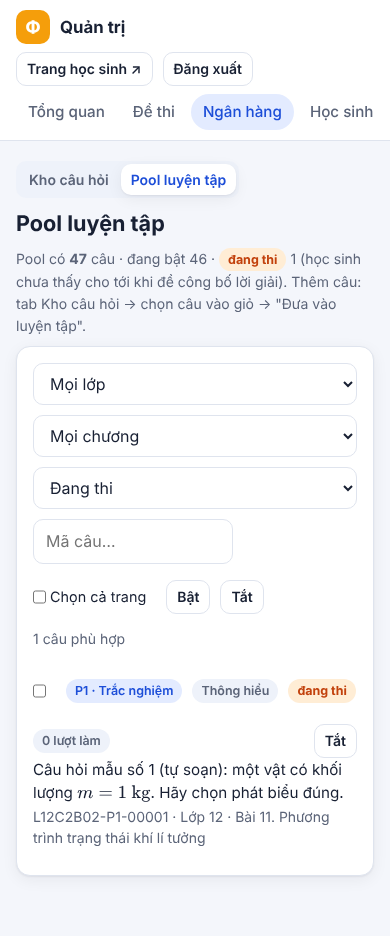
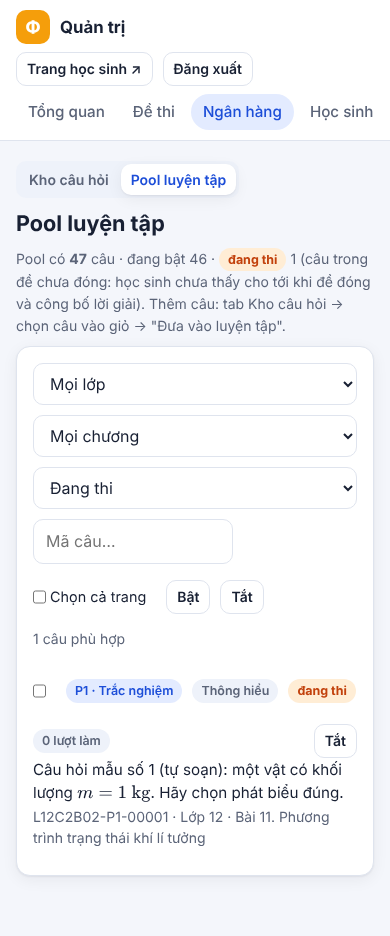
Pha 4 vòng 2: chặn câu của mọi đề chưa đóng (R-1), ẩn lời giải câu đang thi khi xem lại (R-2), đọc theo học sinh (R-3), R-5, R-6, N-1, N-2
Claude-Session: https://claude.ai/code/session_01BBCuQ1sSV2ojmqNhomXWAj

Changed region(s): [[0.0308, 0.2479, 0.9538, 0.3718]]

diff --git a/tests/pha4.test.js b/tests/pha4.test.js
@@ -243,6 +243,7 @@ t('TC-4.6 CAU_SAI: có X (đề đã cho xem lời giải) và Y (bài luyện);
   const X = pool[3];
   const eX = saveExam(w, { trangThai: 'MO', hienLoiGiai: 'NGAY' }, [X, MANUAL(1)]);
   doExam(w, eX, {}); // sai cả X và câu nhập tay
+  saveExam(w, { trangThai: 'DONG', hienLoiGiai: 'NGAY' }, [X, MANUAL(1)], eX); // vòng 2: chỉ đề ĐÃ ĐÓNG mới cho câu vào luyện tập
   const eZ = saveExam(w, { trangThai: 'MO', hienLoiGiai: 'SAU_HAN', ketThuc: inHour() }, [MANUAL(9)]);
   doExam(w, eZ, {});
   // Y: sai ở bài luyện
@@ -428,8 +429,8 @@ t('TC-4.12 Sheet cũ không có LuyenTap/KetQuaLuyenTap: practiceMeta rỗng, kh
   assert(ok(w.g.call('practiceMeta', { token: w.sTok })).soCauSai >= 1);
 });
 
-t('TC-4.13 câu X trong pool và trong đề SAU_HAN đang mở / đề NHAP: 50 lần practiceStart (mọi kiểu) không có X; đóng đề thì X xuất hiện lại', () => {
-  for (const kind of ['SAU_HAN', 'NHAP']) {
+t('TC-4.13 câu X trong pool và trong đề đang mở (SAU_HAN, NGAY) / đề NHAP: 50 lần practiceStart (mọi kiểu) không có X; đóng đề thì X xuất hiện lại', () => {
+  for (const kind of ['SAU_HAN', 'NGAY', 'NHAP']) {
     const w = world();
     const meta0 = ok(w.g.call('practiceMeta', { token: w.sTok }));
     const thin = meta0.cay.find((x) => /Bài 11/.test(x.bai)); // 3 câu Phần I
@@ -438,7 +439,14 @@ t('TC-4.13 câu X trong pool và trong đề SAU_HAN đang mở / đề NHAP: 50
     const s0 = ok(w.g.call('practiceStart', { token: w.sTok, kieu: 'TU_TAO', bai: [thin.bai], so: { TN: 5, DS: 0, TL: 0 }, phut: 5 }));
     assert(payload(s0.attemptToken).qids.includes(X));
     ok(w.g.call('submitExam', { token: w.sTok, attemptToken: s0.attemptToken, answers: {} }));
-    const eid = saveExam(w, kind === 'NHAP' ? { trangThai: 'NHAP' } : { trangThai: 'MO', hienLoiGiai: 'SAU_HAN', ketThuc: inHour() }, [X]);
+    const eid = saveExam(w, kind === 'NHAP' ? { trangThai: 'NHAP' } : { trangThai: 'MO', hienLoiGiai: kind, ketThuc: inHour() }, [X]);
+    // R-2: xem lại bài luyện cũ (có X) lúc X đang bị chặn → không có đáp án/lời giải của X; giáo viên vẫn thấy
+    const old = ok(w.g.call('getResult', { token: w.sTok, resultId: ok(w.g.call('myResults', { token: w.sTok, loai: 'luyen' }))[0].id }));
+    const xi = old.items.find((it) => it.noiDung === String(w.byMa[X][col('Nội dung câu hỏi')]));
+    assert(xi && xi.an && !xi.dapAn && !xi.loiGiai && /chưa kết thúc/.test(xi.anNote), kind + ': xem lại lộ đáp án X');
+    assert(old.items.filter((it) => it !== xi).every((it) => it.loiGiai), 'câu khác vẫn có lời giải');
+    const oldT = ok(w.g.call('getResult', { token: w.tTok, resultId: old.id }));
+    assert(oldT.items.find((it) => it.stt === xi.stt).loiGiai, 'giáo viên vẫn thấy lời giải');
     const meta = ok(w.g.call('practiceMeta', { token: w.sTok }));
     assert.strictEqual(meta.cay.find((x) => x.bai === thin.bai).dem.TN, 2, 'practiceMeta không đếm X');
     const kinds = ['TU_TAO', 'CAU_SAI', 'NHANH'];
@@ -450,7 +458,9 @@ t('TC-4.13 câu X trong pool và trong đề SAU_HAN đang mở / đề NHAP: 50
     }
     // câu trong pool bị chặn cũng không lộ qua kết quả xem lại? (bài s0 làm trước khi chặn: vẫn là câu luyện tập đã nộp → được xem)
     // đóng đề → X xuất hiện lại
-    saveExam(w, { trangThai: 'DONG', hienLoiGiai: 'SAU_HAN' }, [X], eid);
+    saveExam(w, { trangThai: 'DONG', hienLoiGiai: kind === 'NGAY' ? 'NGAY' : 'SAU_HAN' }, [X], eid);
+    const back = ok(w.g.call('getResult', { token: w.sTok, resultId: old.id }));
+    assert(back.items.every((it) => it.loiGiai && !it.an), 'đóng đề → lời giải hiện lại');
     assert.strictEqual(ok(w.g.call('practiceMeta', { token: w.sTok })).cay.find((x) => x.bai === thin.bai).dem.TN, 3);
     const s = ok(w.g.call('practiceStart', { token: w.sTok, kieu: 'TU_TAO', bai: [thin.bai], so: { TN: 5, DS: 0, TL: 0 }, phut: 5 }));
     assert(payload(s.attemptToken).qids.includes(X), 'X xuất hiện lại');
@@ -466,7 +476,19 @@ t('TC-4.13 câu X trong pool và trong đề SAU_HAN đang mở / đề NHAP: 50
   assert(w.g.blockedBankIds_()[X], 'đề không công bố lời giải');
   saveExam(w, { trangThai: 'MO', hienLoiGiai: 'NGAY', batDau: hourAgo() }, [X], e1);
   w.g.__MEMO();
-  assert(!w.g.blockedBankIds_()[X], 'đề công bố lời giải ngay: không chặn');
+  assert(w.g.blockedBankIds_()[X], 'vòng 2: đề NGAY đang mở vẫn chặn');
+  saveExam(w, { trangThai: 'MO', hienLoiGiai: 'NGAY', batDau: hourAgo(), ketThuc: hourAgo() }, [X], e1);
+  w.g.__MEMO();
+  assert(!w.g.blockedBankIds_()[X], 'đề NGAY đã hết hạn: không chặn');
+  saveExam(w, { trangThai: 'DONG', hienLoiGiai: 'KHONG' }, [X], e1);
+  w.g.__MEMO();
+  assert(w.g.blockedBankIds_()[X], 'đề đã đóng nhưng không công bố lời giải: vẫn chặn');
+  // đệm hết hạn đúng mốc đóng đề: đề NGAY đóng sau 2 giây
+  saveExam(w, { trangThai: 'MO', hienLoiGiai: 'NGAY', ketThuc: inHour() }, [X], e1);
+  w.g.__MEMO();
+  assert(w.g.blockedBankIds_()[X]);
+  const blkKey = Object.keys(w.g._cache).find((k) => /^blk_/.test(k));
+  assert(JSON.parse(w.g._cache[blkKey].v).until <= Date.now() + 3600e3 + 60e3, 'đệm sống tới mốc đóng đề');
 });
 
 t('TC-4.14 sửa đề sau khi học sinh làm (chèn câu lên đầu): câu nhập tay lệch bị bỏ khỏi CAU_SAI; câu có maKho vẫn đúng', () => {
@@ -476,10 +498,11 @@ t('TC-4.14 sửa đề sau khi học sinh làm (chèn câu lên đầu): câu nh
   const M = MANUAL(1);
   const eid = saveExam(w, { trangThai: 'MO', hienLoiGiai: 'NGAY' }, [M, X]);
   doExam(w, eid, {});
+  saveExam(w, { trangThai: 'DONG', hienLoiGiai: 'NGAY' }, [M, X], eid);
   let set = payload(ok(w.g.call('practiceStart', { token: w.sTok, kieu: 'CAU_SAI' })).attemptToken).qids;
   assert.deepStrictEqual(set.sort(), [eid + '#1', eid + '#2'].sort());
   // giáo viên chèn câu mới lên đầu, đánh số lại
-  saveExam(w, { trangThai: 'MO', hienLoiGiai: 'NGAY' }, [MANUAL(0), M, X], eid);
+  saveExam(w, { trangThai: 'DONG', hienLoiGiai: 'NGAY' }, [MANUAL(0), M, X], eid);
   set = payload(ok(w.g.call('practiceStart', { token: w.sTok, kieu: 'CAU_SAI' })).attemptToken).qids;
   assert(!set.includes(eid + '#1'), 'ô #1 nay là câu khác → bỏ');
   assert(!set.includes(eid + '#2'), 'không đoán theo vị trí mới cho câu nhập tay');
@@ -489,14 +512,17 @@ t('TC-4.14 sửa đề sau khi học sinh làm (chèn câu lên đầu): câu nh
   w2.sync({ maKho: [w2.k.rows[0][0]] });
   const e2 = saveExam(w2, { trangThai: 'MO', hienLoiGiai: 'NGAY' }, [MANUAL(5)]);
   doExam(w2, e2, {});
+  saveExam(w2, { trangThai: 'DONG', hienLoiGiai: 'NGAY' }, [MANUAL(5)], e2);
   assert.strictEqual(ok(w2.g.call('practiceMeta', { token: w2.sTok })).soCauSai, 1);
-  saveExam(w2, { trangThai: 'MO', hienLoiGiai: 'NGAY' }, [Object.assign(MANUAL(5), { noiDung: 'Nội dung đã sửa.' })], e2);
+  saveExam(w2, { trangThai: 'DONG', hienLoiGiai: 'NGAY' }, [Object.assign(MANUAL(5), { noiDung: 'Nội dung đã sửa.' })], e2);
   assert.strictEqual(ok(w2.g.call('practiceMeta', { token: w2.sTok })).soCauSai, 0);
   // câu lấy từ đề thi trong bài luyện: chiTiet q = examId#stt, xem lại có lời giải
   const w3 = world({ sync: false });
   w3.sync({ maKho: [w3.k.rows[0][0]] });
   const e3 = saveExam(w3, { trangThai: 'MO', hienLoiGiai: 'NGAY' }, [MANUAL(7)]);
   doExam(w3, e3, {});
+  assert.strictEqual(ok(w3.g.call('practiceMeta', { token: w3.sTok })).soCauSai, 0, 'đề còn mở: câu chưa vào tập câu sai');
+  saveExam(w3, { trangThai: 'DONG', hienLoiGiai: 'NGAY' }, [MANUAL(7)], e3);
   const s = ok(w3.g.call('practiceStart', { token: w3.sTok, kieu: 'CAU_SAI' }));
   assert(!/Giải 7|"dapAn"/.test(JSON.stringify(s.questions)));
   const v = ok(w3.g.call('submitExam', { token: w3.sTok, attemptToken: s.attemptToken, answers: { 1: 'A' } }));
@@ -545,6 +571,98 @@ t('R-12 ô "Hình vẽ" có nhiều hình: nhận đủ tên; chép đủ hình,
   assert(/!\[\]\(https:\/\/lh3\.googleusercontent\.com\/d\/[^)]+\)$/.test(q.noiDung), q.noiDung);
   assert.deepStrictEqual(plain(out.thieuHinh), []);
   assert.strictEqual(w.g._stats.makeCopy, 2);
+});
+
+/** Thêm n bài luyện giả của học sinh khác vào KetQuaLuyenTap (đo hiệu năng R-3). */
+function fillPracticeRows(w, n) {
+  const sh = w.g._sheets.KetQuaLuyenTap._data();
+  const hd = sh[0];
+  const det = JSON.stringify(Array.from({ length: 15 }, (_, i) => ({ s: i + 1, l: 'TN', a: 'A', sc: 0, m: 0.25, c: 0, cd: 'Chủ đề mẫu', md: 'NB', p: 1, q: 'L12C1B01-P1-' + String(i).padStart(5, '0'), h: 'abcdef12', k: 'L12C1B01-P1-' + String(i).padStart(5, '0') })));
+  for (let i = 0; i < n; i++) {
+    const o = { 'Mã bài': 'LTGIA' + i, 'Mã HS': 'HSX' + (i % 300), 'Điểm (thang 10)': 5, 'Chi tiết (JSON)': det, 'Họ tên': 'Học sinh giả', 'Nộp lúc': '01/11/2026 10:00:00', 'Kiểu': 'TU_TAO' };
+    sh.push(hd.map((h) => (h in o ? o[h] : '')));
+  }
+}
+module.exports.measure = (w) => {
+  const m = {};
+  const run = (name, fn) => { clearCache(w.g); w.g._resetStats(); fn(); m[name] = { cells: w.g._stats.cells.KetQuaLuyenTap || 0, full: w.g._stats.reads.KetQuaLuyenTap || 0, fullKQ: w.g._stats.reads.KetQua || 0 }; };
+  let s;
+  run('practiceMeta', () => ok(w.g.call('practiceMeta', { token: w.sTok })));
+  run('practiceStart', () => { s = ok(w.g.call('practiceStart', { token: w.sTok, kieu: 'TU_TAO', so: { TN: 5 }, phut: 5 })); });
+  run('submitExam', () => ok(w.g.call('submitExam', { token: w.sTok, attemptToken: s.attemptToken, answers: {} })));
+  run('myResults luyen', () => ok(w.g.call('myResults', { token: w.sTok, loai: 'luyen' })));
+  return m;
+};
+
+t('Vòng 2 R-3: 5 000 bài luyện của học sinh khác — mở Luyện tập / bắt đầu / nộp không đọc cả trang KetQuaLuyenTap, KetQua', () => {
+  const w = world();
+  const s0 = ok(w.g.call('practiceStart', { token: w.sTok, kieu: 'TU_TAO', so: { TN: 5 }, phut: 5 }));
+  ok(w.g.call('submitExam', { token: w.sTok, attemptToken: s0.attemptToken, answers: {} }));
+  fillPracticeRows(w, 5000);
+  const m = module.exports.measure(w);
+  Object.keys(m).forEach((k) => {
+    assert.strictEqual(m[k].full, 0, k + ': đọc cả trang KetQuaLuyenTap');
+    assert.strictEqual(m[k].fullKQ, 0, k + ': đọc cả trang KetQua');
+    assert(m[k].cells <= (k === 'submitExam' ? 2 : 1) * 5002 + 3 * 20 + 40, k + ': ' + m[k].cells + ' ô'); // nộp: cột Mã HS + cột Mã bài (kiểm trùng trong khóa)
+  });
+  console.log('    số đo (ô đọc trên KetQuaLuyenTap, 5 001 hàng): ' + Object.keys(m).map((k) => `${k} ${m[k].cells}`).join(' · '));
+  module.exports.r3 = m;
+});
+
+t('Vòng 2 R-2: bắt đầu bài luyện có X, giáo viên đưa X vào đề đang mở, nộp → kết quả không có đáp án/lời giải của X; điểm vẫn chấm', () => {
+  const w = world();
+  const s = ok(w.g.call('practiceStart', { token: w.sTok, kieu: 'TU_TAO', so: { TN: 5 }, phut: 5 }));
+  const qids = payload(s.attemptToken).qids;
+  const X = qids[0];
+  saveExam(w, { trangThai: 'MO', hienLoiGiai: 'NGAY' }, [X]);
+  const v = ok(w.g.call('submitExam', { token: w.sTok, attemptToken: s.attemptToken, answers: w.answersFor(s.attemptToken, (q) => w.right(q)) }));
+  assert.strictEqual(v.diem, 10, 'điểm vẫn chấm đủ');
+  assert(v.items[0].an && !v.items[0].dapAn && !v.items[0].loiGiai, 'lộ đáp án X');
+  assert(v.items.slice(1).every((it) => it.loiGiai), 'câu khác có lời giải');
+});
+
+t('Vòng 2 N-1: gửi cả chương và bài → lấy giao (chỉ bài thuộc chương)', () => {
+  const w = world(BIG());
+  const meta = ok(w.g.call('practiceMeta', { token: w.sTok }));
+  const a = meta.cay.find((x) => /Chương II/.test(x.chuong));
+  const s = ok(w.g.call('practiceStart', { token: w.sTok, kieu: 'TU_TAO', chuong: [a.chuong], bai: [a.bai], so: { TN: 10 }, phut: 10 }));
+  payload(s.attemptToken).qids.forEach((q) => assert.strictEqual(w.byMa[q][col('Bài')], a.bai, 'ngoài bài đã chọn: ' + q));
+  // bài không thuộc chương → không có câu
+  const other = meta.cay.find((x) => x.chuong !== a.chuong);
+  assert(!w.g.call('practiceStart', { token: w.sTok, kieu: 'TU_TAO', chuong: [a.chuong], bai: [other.bai], so: { TN: 5 }, phut: 10 }).ok);
+});
+
+t('Vòng 2 R-6: tổng pool đang bật quá 3 000 câu sau "Thêm" → báo lỗi rõ, không ghi', () => {
+  const w = world({ kho: { rows: K.bigRows(3010), missingImages: 0 }, sync: false });
+  const codes = w.k.rows.map((r) => r[0]);
+  w.sync({ maKho: codes.slice(0, 2995) });
+  const n0 = w.g._sheets.LuyenTap._data().length;
+  const r = w.g.call('adminPracticeSync', { token: w.tTok, maKho: codes.slice(2995, 3010), mode: 'them' });
+  assert(!r.ok && /tối đa 3000 câu đang bật/.test(r.error) && /3010/.test(r.error), r.error);
+  assert.strictEqual(w.g._sheets.LuyenTap._data().length, n0, 'không ghi');
+  // tắt bớt rồi thêm: được
+  ok(w.g.call('adminPracticeToggle', { token: w.tTok, maKho: codes.slice(0, 20), bat: 'KHONG' }));
+  assert.strictEqual(w.sync({ maKho: codes.slice(2995, 3010) }).them, 15);
+  // "thay" bằng 10 câu: được
+  assert(w.sync({ maKho: codes.slice(0, 10), mode: 'thay' }).tat > 0);
+});
+
+t('Vòng 2 R-5 / N-2: nộp lại tìm bài theo mã bài + mã học sinh; tắt luyện tập vẫn xem được lịch sử và bài luyện cũ', () => {
+  const w = world();
+  const s = ok(w.g.call('practiceStart', { token: w.sTok, kieu: 'TU_TAO', so: { TN: 5 }, phut: 5 }));
+  const v = ok(w.g.call('submitExam', { token: w.sTok, attemptToken: s.attemptToken, answers: {} }));
+  assert(/^LT\d{12}[0-9A-F]{12}$/.test(v.id), v.id);
+  // giả lập hàng trùng mã bài của học sinh khác (đổi Mã HS): nộp lại không trả bài của người khác
+  const d = w.g._sheets.KetQuaLuyenTap._data();
+  d[1][d[0].indexOf('Mã HS')] = 'HS9999';
+  clearCache(w.g);
+  const r = w.g.call('submitExam', { token: w.sTok, attemptToken: s.attemptToken, answers: {} });
+  assert(!r.ok || r.data.studentId === 'HS0001', 'trả bài của học sinh khác');
+  d[1][d[0].indexOf('Mã HS')] = 'HS0001';
+  clearCache(w.g);
+  K.setSetting(w.g, { CHO_LUYEN_TAP: 'KHONG' });
+  assert.strictEqual(ok(w.g.call('myResults', { token: w.sTok, loai: 'luyen' })).length, 1);
+  assert(ok(w.g.call('getResult', { token: w.sTok, resultId: v.id })).items.length);
 });
 
 console.log(`\n${passed} kiểm thử đạt${failed ? ', ' + failed + ' KHÔNG ĐẠT' : '.'}`);

diff --git a/assets/js/admin.js b/assets/js/admin.js
@@ -990,7 +990,7 @@
     if (!c.items.length) return;
     const view = App.currentView();
     const mode = await modal(`<h2>Đưa ${c.items.length} câu vào luyện tập</h2>
-      <p>Học sinh sẽ luyện được các câu này (đúng khối lớp). Câu đang nằm trong đề thi chưa công bố lời giải sẽ <b>tạm ẩn</b> với học sinh cho tới khi đề công bố lời giải.</p>
+      <p>Học sinh sẽ luyện được các câu này (đúng khối lớp). Câu đang nằm trong một đề thi <b>chưa đóng</b> (nháp, chưa mở, đang mở) hoặc không công bố lời giải sẽ <b>tạm ẩn</b> với học sinh cho tới khi đề đóng và công bố lời giải.</p>
       <div class="modal-actions"><button class="btn" data-close="">Hủy</button>
         <button class="btn" data-close="thay" id="ptReplace" title="Các câu khác trong pool được tắt (không xóa)">Thay pool bằng giỏ</button>
         <button class="btn btn-primary" data-close="them" id="ptAdd">Thêm vào pool</button></div>`);
@@ -1018,7 +1018,7 @@
       await modal(`<h2>Đã cập nhật pool luyện tập</h2>
         <p id="ptResult">Thêm mới <b>${r.them}</b> · cập nhật ${r.capNhat} · tắt ${r.tat} câu.</p>
         ${bq.khongDapAn || bq.tuLuan || bq.khac || bq.khongCo ? `<p class="muted small">Bỏ qua: ${bq.khongDapAn || 0} câu chưa có đáp án hợp lệ, ${bq.tuLuan || 0} câu tự luận${bq.khac ? ', ' + bq.khac + ' câu lỗi định dạng' : ''}${bq.khongCo ? ', ' + bq.khongCo + ' mã không có trong kho' : ''}.</p>` : ''}
-        ${(r.dangThi || []).length ? `<div class="notice warn" id="ptDangThi"><b>${r.dangThi.length} câu đang thi</b> (nằm trong đề chưa công bố lời giải): đã thêm nhưng học sinh chưa thấy cho tới khi đề công bố lời giải.<br><span class="small">${r.dangThi.slice(0, 30).map(esc).join(', ')}${r.dangThi.length > 30 ? ', …' : ''}</span></div>` : ''}
+        ${(r.dangThi || []).length ? `<div class="notice warn" id="ptDangThi"><b>${r.dangThi.length} câu đang thi</b> (nằm trong đề chưa đóng hoặc không công bố lời giải): đã thêm nhưng học sinh chưa thấy cho tới khi đề đóng và công bố lời giải.<br><span class="small">${r.dangThi.slice(0, 30).map(esc).join(', ')}${r.dangThi.length > 30 ? ', …' : ''}</span></div>` : ''}
         ${[...new Set(canhBao)].slice(0, 20).map((x) => `<div class="notice warn small">${esc(x)}</div>`).join('')}
         <div class="modal-actions"><a class="btn" href="#/ngan-hang/pool" data-close="">Xem pool luyện tập</a><button class="btn btn-primary" data-close="">Đóng</button></div>`, { wide: true });
     } catch (err) {
@@ -1052,7 +1052,7 @@
       const pages = Math.max(1, Math.ceil(r.tong / r.size));
       const chs = [...new Set(r.cay.map((x) => x.chuong))];
       box.innerHTML = `${r.choLuyenTap ? '' : '<div class="notice warn" id="poolOff" style="margin-bottom:10px">Mục Luyện tập đang <b>tắt</b> với học sinh. Bật ở <a href="#/cai-dat">Cài đặt</a> → "Mục Luyện tập cho học sinh".</div>'}
-        <div class="muted small" style="margin-bottom:10px">Pool có <b>${r.dem.tong}</b> câu · đang bật ${r.dem.bat} · <span class="badge badge-exam">đang thi</span> ${r.dem.dangThi} (học sinh chưa thấy cho tới khi đề công bố lời giải).
+        <div class="muted small" style="margin-bottom:10px">Pool có <b>${r.dem.tong}</b> câu · đang bật ${r.dem.bat} · <span class="badge badge-exam">đang thi</span> ${r.dem.dangThi} (câu trong đề chưa đóng: học sinh chưa thấy cho tới khi đề đóng và công bố lời giải).
           Thêm câu: tab Kho câu hỏi → chọn câu vào giỏ → "Đưa vào luyện tập".</div>
         <div class="card"><div class="row pool-filters">
           <select id="plLop"><option value="">Mọi lớp</option>${r.lop.map((l) => `<option value="${l}" ${String(l) === String(f.lop) ? 'selected' : ''}>Lớp ${l}</option>`).join('')}</select>
@@ -1065,7 +1065,7 @@
           <div id="plList">${r.items.length ? r.items.map((x) => `<div class="pool-item ${x.bat ? '' : 'off'}" data-ma="${esc(x.maKho)}">
             <div class="row"><label class="chk"><input type="checkbox" class="pl-sel" value="${esc(x.maKho)}"></label>
               <span class="badge badge-primary">${PART_SHORT[x.phan] || ''} · ${App.TYPES[x.loai] || x.loai}</span>${x.mucDo ? `<span class="badge">${App.LEVELS[x.mucDo] || esc(x.mucDo)}</span>` : ''}
-              ${x.dangThi ? '<span class="badge badge-exam" title="Câu nằm trong đề chưa công bố lời giải: học sinh chưa thấy">đang thi</span>' : ''}
+              ${x.dangThi ? '<span class="badge badge-exam" title="Câu nằm trong đề chưa đóng hoặc không công bố lời giải: học sinh chưa thấy">đang thi</span>' : ''}
               <span class="badge">${x.soLuot} lượt làm</span>${x.coHinh ? '<span class="badge">có hình</span>' : ''}
               <span class="spacer"></span><button class="btn btn-sm ${x.bat ? '' : 'btn-primary'}" data-toggle="${esc(x.maKho)}" data-to="${x.bat ? 'KHONG' : 'CO'}">${x.bat ? 'Tắt' : 'Bật'}</button></div>
             <div class="bank-tom">${rich(x.tom)}</div>

diff --git a/assets/js/common.js b/assets/js/common.js
@@ -411,6 +411,11 @@
     if (it.go) {
       // bài luyện tập: câu đã bị xóa khỏi pool / đề nguồn đã sửa (Pha 4)
       body = `<div class="notice warn q-gone">Câu đã bị gỡ khỏi ngân hàng.</div><div class="muted small" style="margin-top:6px">Bạn trả lời: <b>${esc(it.loai === 'DS' ? String(it.answer || '').replace(/D/g, 'Đ') : it.answer || '(bỏ trống)')}</b></div>`;
+    } else if (it.an) {
+      // câu đang nằm trong đề thi chưa kết thúc: không có đáp án / lời giải (Pha 4, R-2)
+      if (it.loai !== 'TL') body += '<div>' + ['A', 'B', 'C', 'D'].map((k, i) => `<div class="small"><b>${it.loai === 'DS' ? 'abcd'[i] + ')' : k + '.'}</b> ${rich(it[k])}</div>`).join('') + '</div>';
+      body += `<div class="small" style="margin-top:6px">Bạn trả lời: <b>${esc(it.loai === 'DS' ? String(it.answer || '').replace(/D/g, 'Đ') : it.answer || '(bỏ trống)')}</b></div>
+        <div class="notice q-hidden" style="margin-top:6px">${esc(it.anNote || 'Đáp án và lời giải sẽ hiện khi đề thi chứa câu này kết thúc.')}</div>`;
     } else if (it.loai === 'TN') {
       body += '<div class="opts">' + ['A', 'B', 'C', 'D'].map((k) => {
         const cls = k === it.dapAn ? 'right' : (k === it.answer ? 'wrong' : '');

diff --git a/tests/pha4.e2e.js b/tests/pha4.e2e.js
@@ -297,6 +297,14 @@ async function runNew(browser) {
     await p2.goto(B + '/#/luyen-tap');
     await p2.waitForSelector('#practiceOff');
     check('CHO_LUYEN_TAP=KHONG: vào thẳng #/luyen-tap thấy thông báo tắt', true);
+    // N-2: tắt luyện tập vẫn xem lại được bài luyện cũ
+    await p2.goto(B + '/#/lich-su');
+    await p2.waitForSelector('#histSeg');
+    await p2.click('#histSeg [data-h="luyen"]');
+    await p2.waitForSelector('table tbody tr');
+    await p2.click('table tbody tr:first-child a');
+    await p2.waitForSelector('#practiceBadge');
+    check('CHO_LUYEN_TAP=KHONG: Lịch sử vẫn xem lại được bài luyện cũ', !!(await p2.$('#rvDetail .solution')));
     await api(B, 'adminSaveSettings', { token: tTok, settings: { CHO_LUYEN_TAP: 'CO' } });
 
     check('Không lỗi JS', errors.length === 0, errors.join(' | ').slice(0, 500));

diff --git a/assets/js/app.js b/assets/js/app.js
@@ -35,7 +35,11 @@
   function applyPub(p) {
     const featuresChanged = JSON.stringify((pub && pub.features) || null) !== JSON.stringify(p.features || null);
     pub = p;
-    if (featuresChanged && user) renderUserBox();
+    if (featuresChanged && user) {
+      renderUserBox();
+      // N-2: cấu hình máy chủ về sau lần vẽ đầu → vẽ lại Lịch sử để có bộ lọc "Đề thi / Luyện tập"
+      if (/^#\/lich-su/.test(location.hash) && !document.getElementById('histSeg') && App.has('practice')) { App.newView(); viewHistory(); }
+    }
     document.getElementById('appName').textContent = p.appName;
     document.title = p.appName;
     document.getElementById('navBoard').classList.toggle('hidden', !p.showLeaderboard);

diff --git a/docs/bao-cao/pha-4.md b/docs/bao-cao/pha-4.md
@@ -94,3 +94,36 @@ Thời gian trên Apps Script thật chưa đo được (mạng chặn script.go
 - `practiceUsage_` (số lượt làm ở tab Pool) đọc toàn bộ KetQuaLuyenTap; chậm dần khi nhiều bài luyện.
 - `bank.e2e.js` chỉ đạt khi chạy trên dev-server **mới khởi động** (chạy sau `e2e.js` trên cùng dev-server thì không đạt; trên `main` cũng vậy — lỗi sẵn có của bài test, không do pha này).
 - Giới hạn lượt luyện/ngày và thống kê theo chương/bài: hoãn theo đặc tả.
+
+---
+
+## Vòng 2 (người làm)
+
+Sửa theo `docs/bao-cao/pha-4-soat.md`, `docs/bao-cao/pha-4-kiem-thu.md` và đặc tả bổ sung ngày 19/11/2026 (mục "Chặn câu đang thi", TC-4.13).
+
+| Mã | Mức | Đã sửa |
+|---|---|---|
+| R-1 / K-1 | Nặng | `examLocked_`: câu chỉ vào luyện tập khi đề **đã đóng** (giáo viên đóng hoặc hết hạn) **và** `canReveal_` = true. Chặn đề NHAP, đề chưa tới giờ mở, đề đang mở ở **mọi** chế độ hiện lời giải (kể cả "Ngay sau khi nộp"), đề "Không hiện". Đệm `blockedBankIds_` hết hạn đúng mốc mở/đóng gần nhất. `practiceMeta` không đếm câu bị chặn, tab Pool gắn nhãn "đang thi"; chữ trên trang quản trị đổi thành "đề chưa đóng". "Luyện câu đã sai" chỉ lấy câu của đề đã đóng. |
+| R-2 / K-2 | Vừa | `buildPracticeView_` (xem lại bài luyện cũ và kết quả ngay khi nộp): câu có mã kho đang bị chặn **lúc xem**, hoặc câu lấy từ đề chưa đóng, thì học sinh chỉ thấy đề bài và câu trả lời của mình, kèm dòng "Câu này đang nằm trong một đề thi chưa kết thúc. Đáp án và lời giải sẽ hiện khi đề thi đó kết thúc." Điểm vẫn chấm bình thường. Giáo viên vẫn thấy lời giải. Câu bị tắt hoặc bị "thay" khỏi pool vẫn hiện lời giải (TC-4.9 giữ nguyên). |
+| R-3 | Vừa | Không còn đọc cả trang KetQua / KetQuaLuyenTap. `rowsWhere_` chỉ đọc cột "Mã HS" (hoặc "Mã bài"), rồi đọc riêng các hàng khớp. Khi nộp không đọc lại trang để dựng kết quả. Tab Pool đếm lượt làm chỉ đọc cột "Chi tiết". |
+| R-5 | Nhẹ | Nộp lại: tìm bài theo mã bài **và** mã học sinh; mã bài dùng 12 ký tự của mã lượt (trước 6). |
+| R-6 | Nhẹ | Giới hạn 3 000 câu áp cho **tổng** câu đang bật sau mỗi lần "Thêm". Vượt thì báo lỗi rõ (số câu sau lần này, cách xử lý) và không ghi gì. |
+| N-1 | — | Gửi cả `chuong` và `bai` thì lấy **giao** (bài thuộc chương đó). |
+| N-2 | — | Máy chủ không chặn `myResults loai:"luyen"` / `getResult LT…` khi tắt luyện tập. Giao diện: nếu cấu hình máy chủ về sau lần vẽ đầu, trang Lịch sử tự vẽ lại để có bộ lọc "Đề thi / Luyện tập". E2E thêm bước: tắt luyện tập, vẫn mở được bài luyện cũ có lời giải. |
+| R-4 / N-3 | — | Chấp nhận, không sửa. |
+
+### Số đo R-3 (gas-shim, KetQuaLuyenTap 5 001 hàng × 20 cột; trang có KetQua mẫu)
+| Lời gọi | Trước (e2ae46a) | Sau (vòng 2) |
+|---|---|---|
+| `practiceMeta` | KetQuaLuyenTap 1 lần cả trang (100 040 ô) + KetQua 1 lần cả trang | 0 lần cả trang; 5 041 ô (cột Mã HS + hàng của em) |
+| `practiceStart` | 1 lần cả trang (100 040 ô) | 0 lần cả trang; 5 041 ô |
+| `submitExam` (token `p`) | 2 lần cả trang (210 162 ô) | 0 lần cả trang; 10 082 ô (cột Mã HS + cột Mã bài kiểm trùng trong khóa) |
+
+### Test
+- `tests/pha4.test.js` 22/22. Sửa test cũ của tôi theo đặc tả mới: TC-4.6 và TC-4.14 đóng đề trước khi xét "Luyện câu đã sai"; TC-4.13 thêm đề NGAY đang mở, đề hết hạn, đề đã đóng nhưng "Không hiện", mốc hết hạn của đệm, và xem lại bài cũ (học sinh không thấy lời giải, giáo viên vẫn thấy, đóng đề thì hiện lại). Thêm 5 mục "Vòng 2" (R-3 đo ô, R-2 khi nộp, N-1, R-6, R-5/N-2).
+- `tests/pha4-kiem-thu.test.js` của người kiểm thử: 26/26 (không sửa file). `tests/pha4-kiem-thu.e2e.js` 20/20.
+- `tests/pha4.e2e.js` đạt ở máy chủ mới và 1.0.0. Test cũ (`backend`, `importer`, `bank`, `pha1/2/3-kiem-thu`, `cache`, `common-cache`, `docx`, `e2e.js` và `bank.e2e.js` hai chế độ) đều đạt.
+
+### Rủi ro còn lại (cập nhật)
+- Đề không có giờ đóng thì câu bị chặn khỏi luyện tập cho tới khi giáo viên đóng đề (đúng đặc tả bổ sung). Giáo viên xem nhãn "đang thi" ở tab Pool.
+- Nộp bài luyện vẫn đọc 2 cột của KetQuaLuyenTap (tỉ lệ với số hàng); chưa đo trên Apps Script thật.
